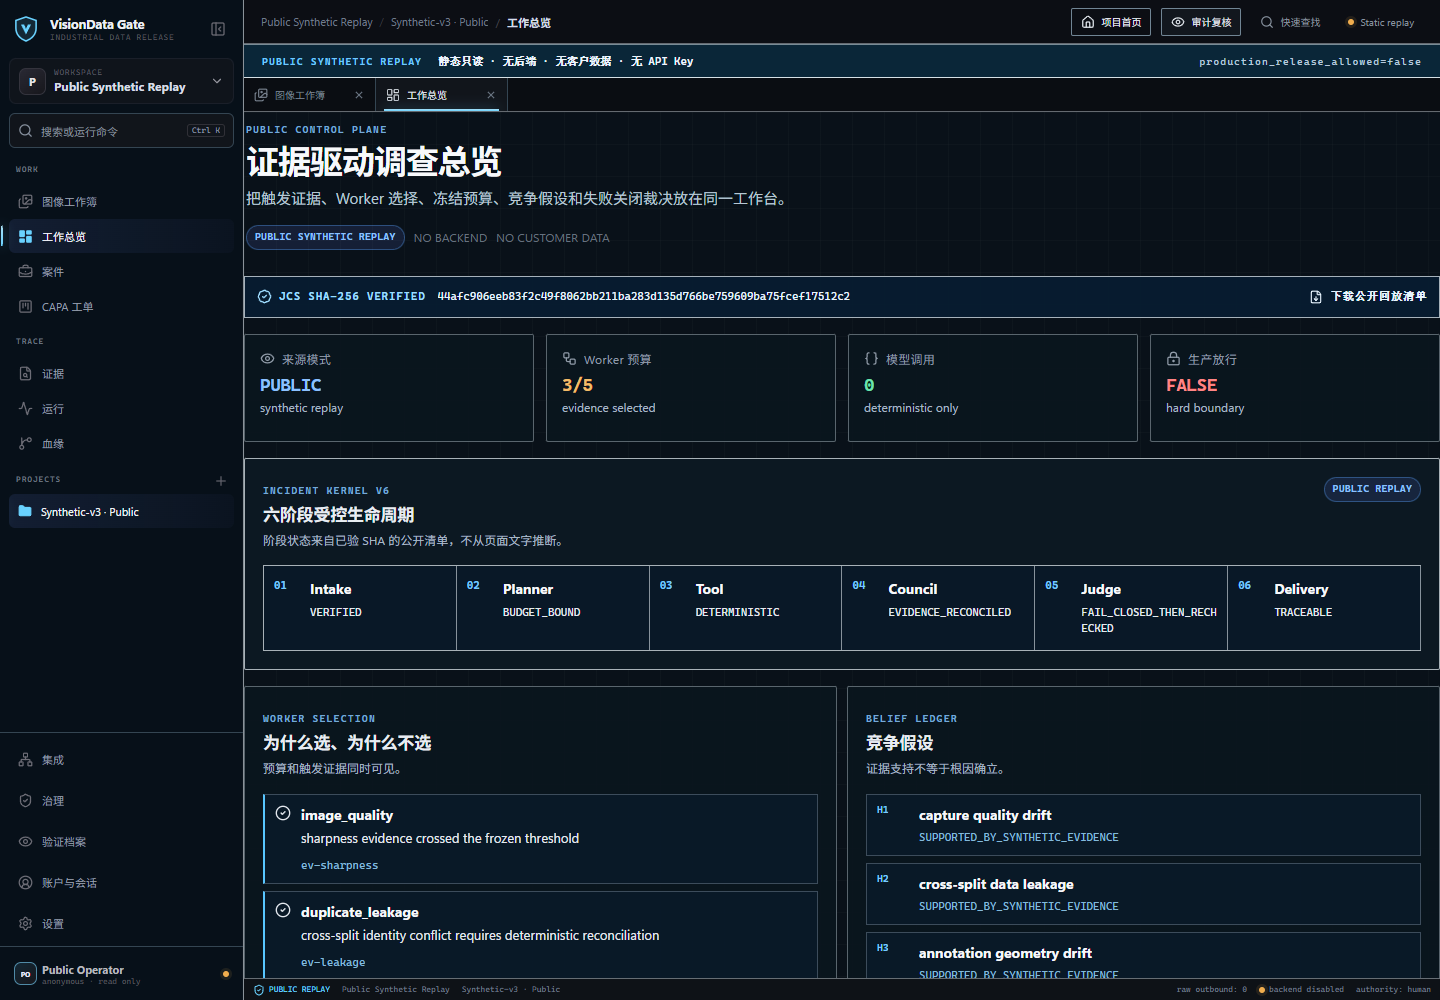
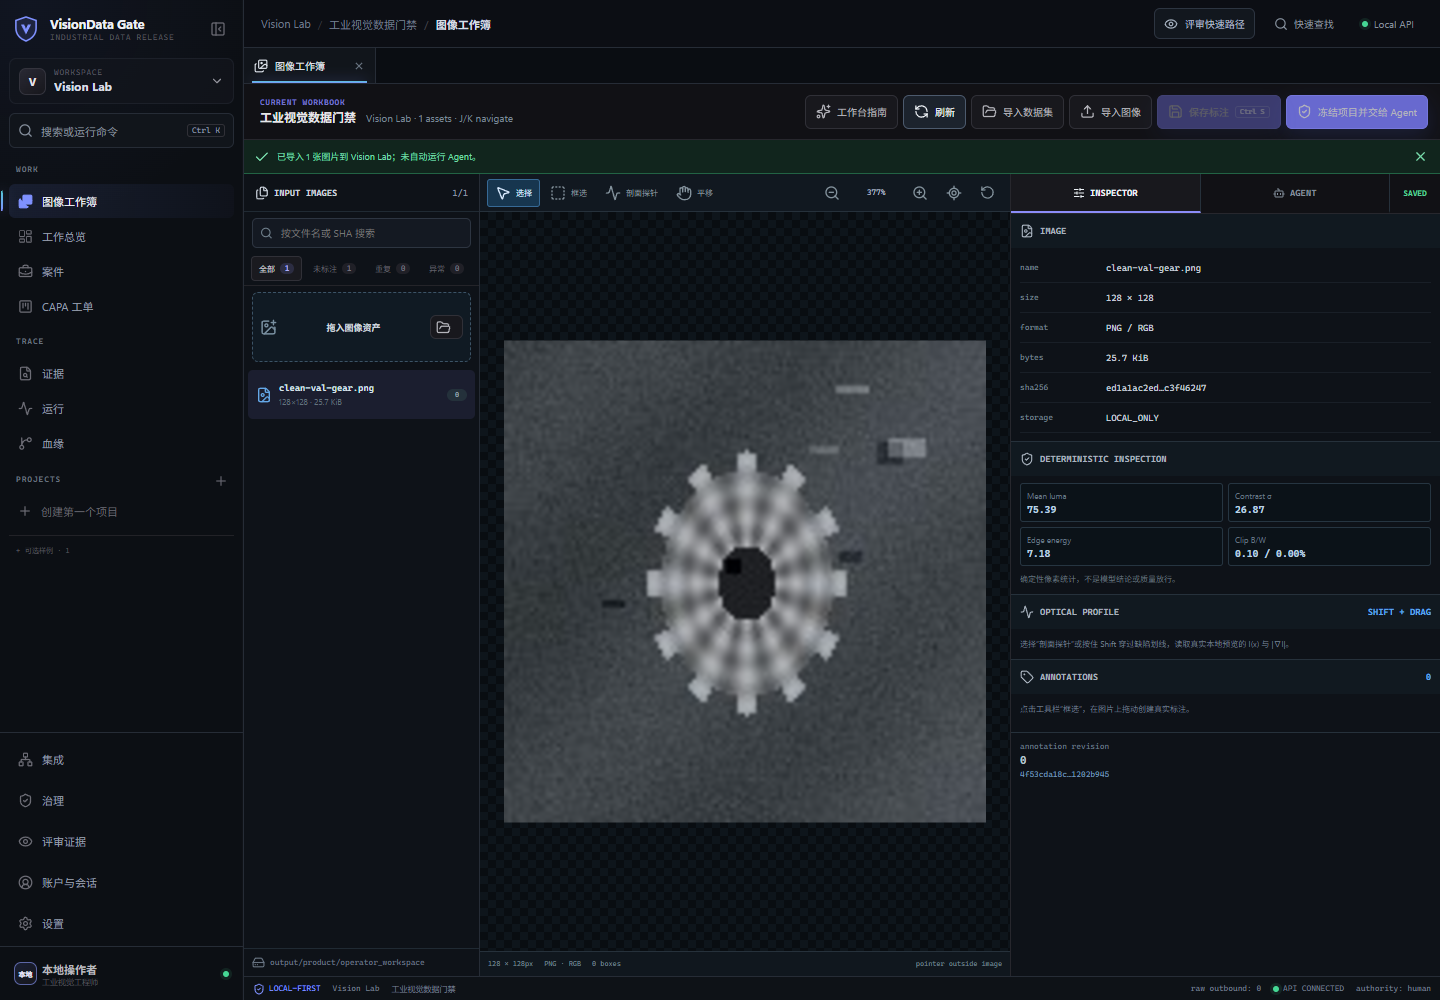
fix: restore the real local workbench entrypoint

diff --git a/web/src/pages/PublicLandingPage.tsx b/web/src/pages/PublicLandingPage.tsx
@@ -17,8 +17,8 @@ import {
 } from "../publicReplay";
 
 const publicRepositoryUrl =
-  "https://github.com/dukeandBaron/visiondata-gate-public";
-const runningGuideUrl = `${publicRepositoryUrl}/blob/main/docs/RUNNING.md`;
+  "https://github.com/dukeandBaron/visiondata-gate";
+const runningGuideUrl = `${publicRepositoryUrl}/blob/main/docs/quickstart.md`;
 
 const workbenchSurfaces = [
   {
@@ -145,7 +145,7 @@ export function PublicLandingPage() {
           <a href="#boundary">验证边界</a>
         </nav>
         <Link className="facade-nav__workbench" to="/command-center">
-          打开工作台 <ArrowRight size={15} />
+          查看只读回放 <ArrowRight size={15} />
         </Link>
       </header>
 
@@ -167,10 +167,12 @@ export function PublicLandingPage() {
               整改后由 Child Run 独立复验。
             </p>
             <div className="facade-hero__actions">
+              <a href={runningGuideUrl} target="_blank" rel="noreferrer">
+                启动真实本地工作台 <ExternalLink size={14} />
+              </a>
               <Link to="/command-center">
-                进入公开工作台 <ArrowRight size={16} />
+                查看只读回放 <ArrowRight size={16} />
               </Link>
-              <a href={runningGuideUrl} target="_blank" rel="noreferrer">本地运行指南</a>
               <a href={publicRepositoryUrl} target="_blank" rel="noreferrer">
                 查看源码 <ExternalLink size={14} />
               </a>
@@ -308,7 +310,7 @@ export function PublicLandingPage() {
             <span>TRACE THE EVIDENCE. CONTROL THE DECISION.</span>
             <h2>从一个冻结合成案件开始，检查工具、Worker、人工门禁与独立复验</h2>
           </div>
-          <Link to="/command-center">打开公开工作台 <ArrowRight size={17} /></Link>
+          <Link to="/command-center">查看公开只读回放 <ArrowRight size={17} /></Link>
         </section>
       </main>
 

diff --git a/web/index.html b/web/index.html
@@ -15,12 +15,12 @@
     <meta property="og:site_name" content="VisionData Gate" />
     <meta property="og:title" content="VisionData Gate · 把工业视觉异常办到可复验" />
     <meta property="og:description" content="证据资格化、动态补证、具名人工授权、私有派生整改与 Child Run 独立复验。" />
-    <meta property="og:url" content="https://dukeandbaron.github.io/visiondata-gate-public/" />
-    <meta property="og:image" content="https://raw.githubusercontent.com/dukeandBaron/visiondata-gate-public/main/docs/assets/web-command-center.png" />
+    <meta property="og:url" content="https://dukeandbaron.github.io/visiondata-gate/" />
+    <meta property="og:image" content="https://raw.githubusercontent.com/dukeandBaron/visiondata-gate/main/docs/assets/web-command-center.png" />
     <meta name="twitter:card" content="summary_large_image" />
     <meta name="twitter:title" content="VisionData Gate · 工业视觉异常处置 Agent" />
     <meta name="twitter:description" content="从确定性测量与动态补证，到具名 CAPA 与 Child Run 独立复验。" />
-    <meta name="twitter:image" content="https://raw.githubusercontent.com/dukeandBaron/visiondata-gate-public/main/docs/assets/web-command-center.png" />
+    <meta name="twitter:image" content="https://raw.githubusercontent.com/dukeandBaron/visiondata-gate/main/docs/assets/web-command-center.png" />
     <title>VisionData Gate · 把工业视觉异常办到可复验</title>
   </head>
   <body>

diff --git a/tests/test_web_source.py b/tests/test_web_source.py
@@ -410,6 +410,12 @@ def test_vite_proxy_rejects_cross_site_requests_before_session_injection() -> No
     assert "window.history.replaceState" in bootstrap
     assert "#visiondata_session=$SessionToken" in launcher
     assert "VISIONDATA_WEB_SESSION_TOKEN" not in launcher
+    assert '$env:VITE_VISIONDATA_PUBLIC_REPLAY = "false"' in launcher
+    assert '$env:VISIONDATA_WEB_BASE_PATH = "/"' in launcher
+    assert '$env:VITE_VISIONDATA_API_BASE_URL = ""' in launcher
+    assert '$env:VITE_VISIONDATA_REVIEWER_BASE_URL = ""' in launcher
+    assert '$env:VITE_VISIONDATA_ACTOR_USER_ID = $Actor' in launcher
+    assert '$env:VISIONDATA_WEB_API_TARGET = $ApiBaseUrl' in launcher
     assert "will not disclose a new" in launcher
 
 

diff --git a/README.md b/README.md
@@ -9,7 +9,7 @@
 <p align="center"><em>A governed evidence agent for industrial vision data readiness.</em></p>
 
 <p align="center">
-  <a href="https://github.com/dukeandBaron/visiondata-gate-public/actions/workflows/ci.yml"><img src="https://github.com/dukeandBaron/visiondata-gate-public/actions/workflows/ci.yml/badge.svg" alt="CI" /></a>
+  <a href="https://github.com/dukeandBaron/visiondata-gate/actions/workflows/ci.yml"><img src="https://github.com/dukeandBaron/visiondata-gate/actions/workflows/ci.yml/badge.svg" alt="CI" /></a>
   <a href="LICENSE"><img src="https://img.shields.io/badge/License-Apache--2.0-334155.svg" alt="Apache-2.0" /></a>
   <img src="https://img.shields.io/badge/Python-3.12-334155.svg" alt="Python 3.12" />
   <img src="https://img.shields.io/badge/FastAPI-0.141-334155.svg" alt="FastAPI 0.141" />
@@ -20,7 +20,9 @@
 </p>
 
 <p align="center">
-  <a href="https://dukeandbaron.github.io/visiondata-gate-public/"><strong>Open Workbench</strong></a>
+  <a href="docs/quickstart.md"><strong>Run Local Workbench</strong></a>
+  ·
+  <a href="https://dukeandbaron.github.io/visiondata-gate/"><strong>View Read-only Replay</strong></a>
   ·
   <a href="docs/quickstart.md"><strong>Quickstart</strong></a>
   ·
@@ -34,7 +36,7 @@
 <p align="center">
   <img src="docs/assets/web-command-center.png" alt="VisionData Gate industrial evidence workbench" width="1180" />
   <br />
-  <sub>同一工作台支持本地受控 API 与公开只读回放；数据来源和权限始终显式标注。</sub>
+  <sub>本地版本连接受控 API、接受真实图片并保存项目状态；GitHub Pages 仅提供明确标注的只读证据回放。</sub>
 </p>
 
 ## Why VisionData Gate
@@ -95,19 +97,21 @@ flowchart LR
 
 状态缺失、摘要漂移、工具失败或并发版本过期都会返回类型化阻断状态，并区分可重试与不可重试。Review/Case 投影界面不会用 Incident 原始字段、静态 Fixture 或上一次 `PASS` 覆盖失败的 LIVE 读取。
 
-## Quick Start
+## Run the Real Workbench
 
 要求：Windows 10/11、Python 3.12、[uv](https://docs.astral.sh/uv/) 和 Node.js 22+。
 
 ```powershell
-git clone https://github.com/dukeandBaron/visiondata-gate-public.git
-cd visiondata-gate-public
+git clone https://github.com/dukeandBaron/visiondata-gate.git
+cd visiondata-gate
 
 .\setup_env.ps1
 .\run_workbench.ps1 -Install
 ```
 
-启动后访问：
+启动后打开 `http://127.0.0.1:4173/workspace`。这是连接本机 FastAPI 的真实工作台，不是预设回放：可以创建项目、上传单张图片或带 COCO / YOLO / VOC / LabelMe 标注的数据集，并继续生成分析、工单与受控 Agent 任务。上传字节保存在本地工作区，返回的资产回执包含服务端复算的 SHA-256。
+
+服务入口：
 
 - Workbench：`http://127.0.0.1:4173/workspace`
 - API health：`http://127.0.0.1:8787/v1/health`
@@ -121,7 +125,7 @@ cd visiondata-gate-public
 
 该入口会创建独立项目、验证 Manifest，并打开对应案件的审阅页。它不会连接生产设备，也不会把仍受阻的 Child Run 改写为生产 `PASS`。
 
-不安装即可浏览 [公开工作台](https://dukeandbaron.github.io/visiondata-gate-public/)。该站点固定为 `PUBLIC_SYNTHETIC_REPLAY`：无后端、无账户、无 API Key、无客户数据、无写入能力。
+不安装即可浏览 [公开只读回放](https://dukeandbaron.github.io/visiondata-gate/)。该站点固定为 `PUBLIC_SYNTHETIC_REPLAY`：无后端、无账户、无 API Key、无客户数据、无上传或写入能力。它用于检查产品流程与审计合同，不替代本地真实工作台。
 
 完整安装、授权本地目录和 BYOP 配置见 [Quickstart](docs/quickstart.md)。当前发布的是可复现源码；已签名的桌面安装包尚未提供。
 
@@ -180,7 +184,7 @@ Provider Key 由本地服务保存且不会通过 API 回显。SHA-256 用于内
 ## Repository Map
 
 ```text
-visiondata-gate-public/
+visiondata-gate/
 ├── src/visiondata_gate/   # governed runtime, API, evidence and audit contracts
 ├── web/                   # React 19 industrial workbench
 ├── desktop/               # Tauri 2 desktop shell

diff --git a/docs/quickstart.md b/docs/quickstart.md
@@ -19,8 +19,8 @@ The React source is portable to macOS and Linux. Prebuilt, signed desktop packag
 ## Install
 
 ```powershell
-git clone https://github.com/dukeandBaron/visiondata-gate-public.git
-cd visiondata-gate-public
+git clone https://github.com/dukeandBaron/visiondata-gate.git
+cd visiondata-gate
 .\setup_env.ps1
 ```
 
@@ -40,6 +40,8 @@ The launcher creates an ephemeral local session and starts both services on loop
 | API health | `http://127.0.0.1:8787/v1/health` |
 | OpenAPI | `http://127.0.0.1:8787/docs` |
 
+Open `/workspace`, create or select a project, then use **Upload images** for individual files or **Import dataset** for COCO, YOLO, VOC, or LabelMe inputs. The browser streams the selected bytes to the loopback API; the service persists them in the local operator workspace and returns a SHA-256-bound asset receipt. This path is interactive and does not use the public replay fixtures.
+
 For hot reload:
 
 ```powershell
@@ -54,7 +56,7 @@ For hot reload:
 
 This command prepares an isolated synthetic project, verifies its manifest, and opens the exact Review deep link. It never grants production authority and never converts an unresolved Child Run into a production `PASS`.
 
-The hosted [Live Demo](https://dukeandbaron.github.io/visiondata-gate-public/) is a static `PUBLIC_SYNTHETIC_REPLAY`. It does not call the local API or accept writes.
+The hosted [read-only replay](https://dukeandbaron.github.io/visiondata-gate/) is a static `PUBLIC_SYNTHETIC_REPLAY`. It does not call the local API, accept uploads, or write project state.
 
 ## Use authorized local data
 

diff --git a/CHANGELOG.md b/CHANGELOG.md
@@ -18,5 +18,5 @@
 - FastAPI、React 19 工作台与 Tauri 2 Windows 外壳源码。
 - Schema、Rule Pack、Skill、Adapter、sample data 和公开合成回放。
 
-[Unreleased]: https://github.com/dukeandBaron/visiondata-gate-public/compare/v0.1.0...HEAD
-[0.1.0]: https://github.com/dukeandBaron/visiondata-gate-public/releases/tag/v0.1.0
+[Unreleased]: https://github.com/dukeandBaron/visiondata-gate/compare/v0.1.0...HEAD
+[0.1.0]: https://github.com/dukeandBaron/visiondata-gate/releases/tag/v0.1.0

diff --git a/web/README.md b/web/README.md
@@ -93,7 +93,7 @@ npm run preview
 
 ```powershell
 $env:VITE_VISIONDATA_PUBLIC_REPLAY = "true"
-$env:VISIONDATA_WEB_BASE_PATH = "/visiondata-gate-public/"
+$env:VISIONDATA_WEB_BASE_PATH = "/visiondata-gate/"
 npm run build
 python ..\tools\check_public_pages.py --dist dist
 ```
